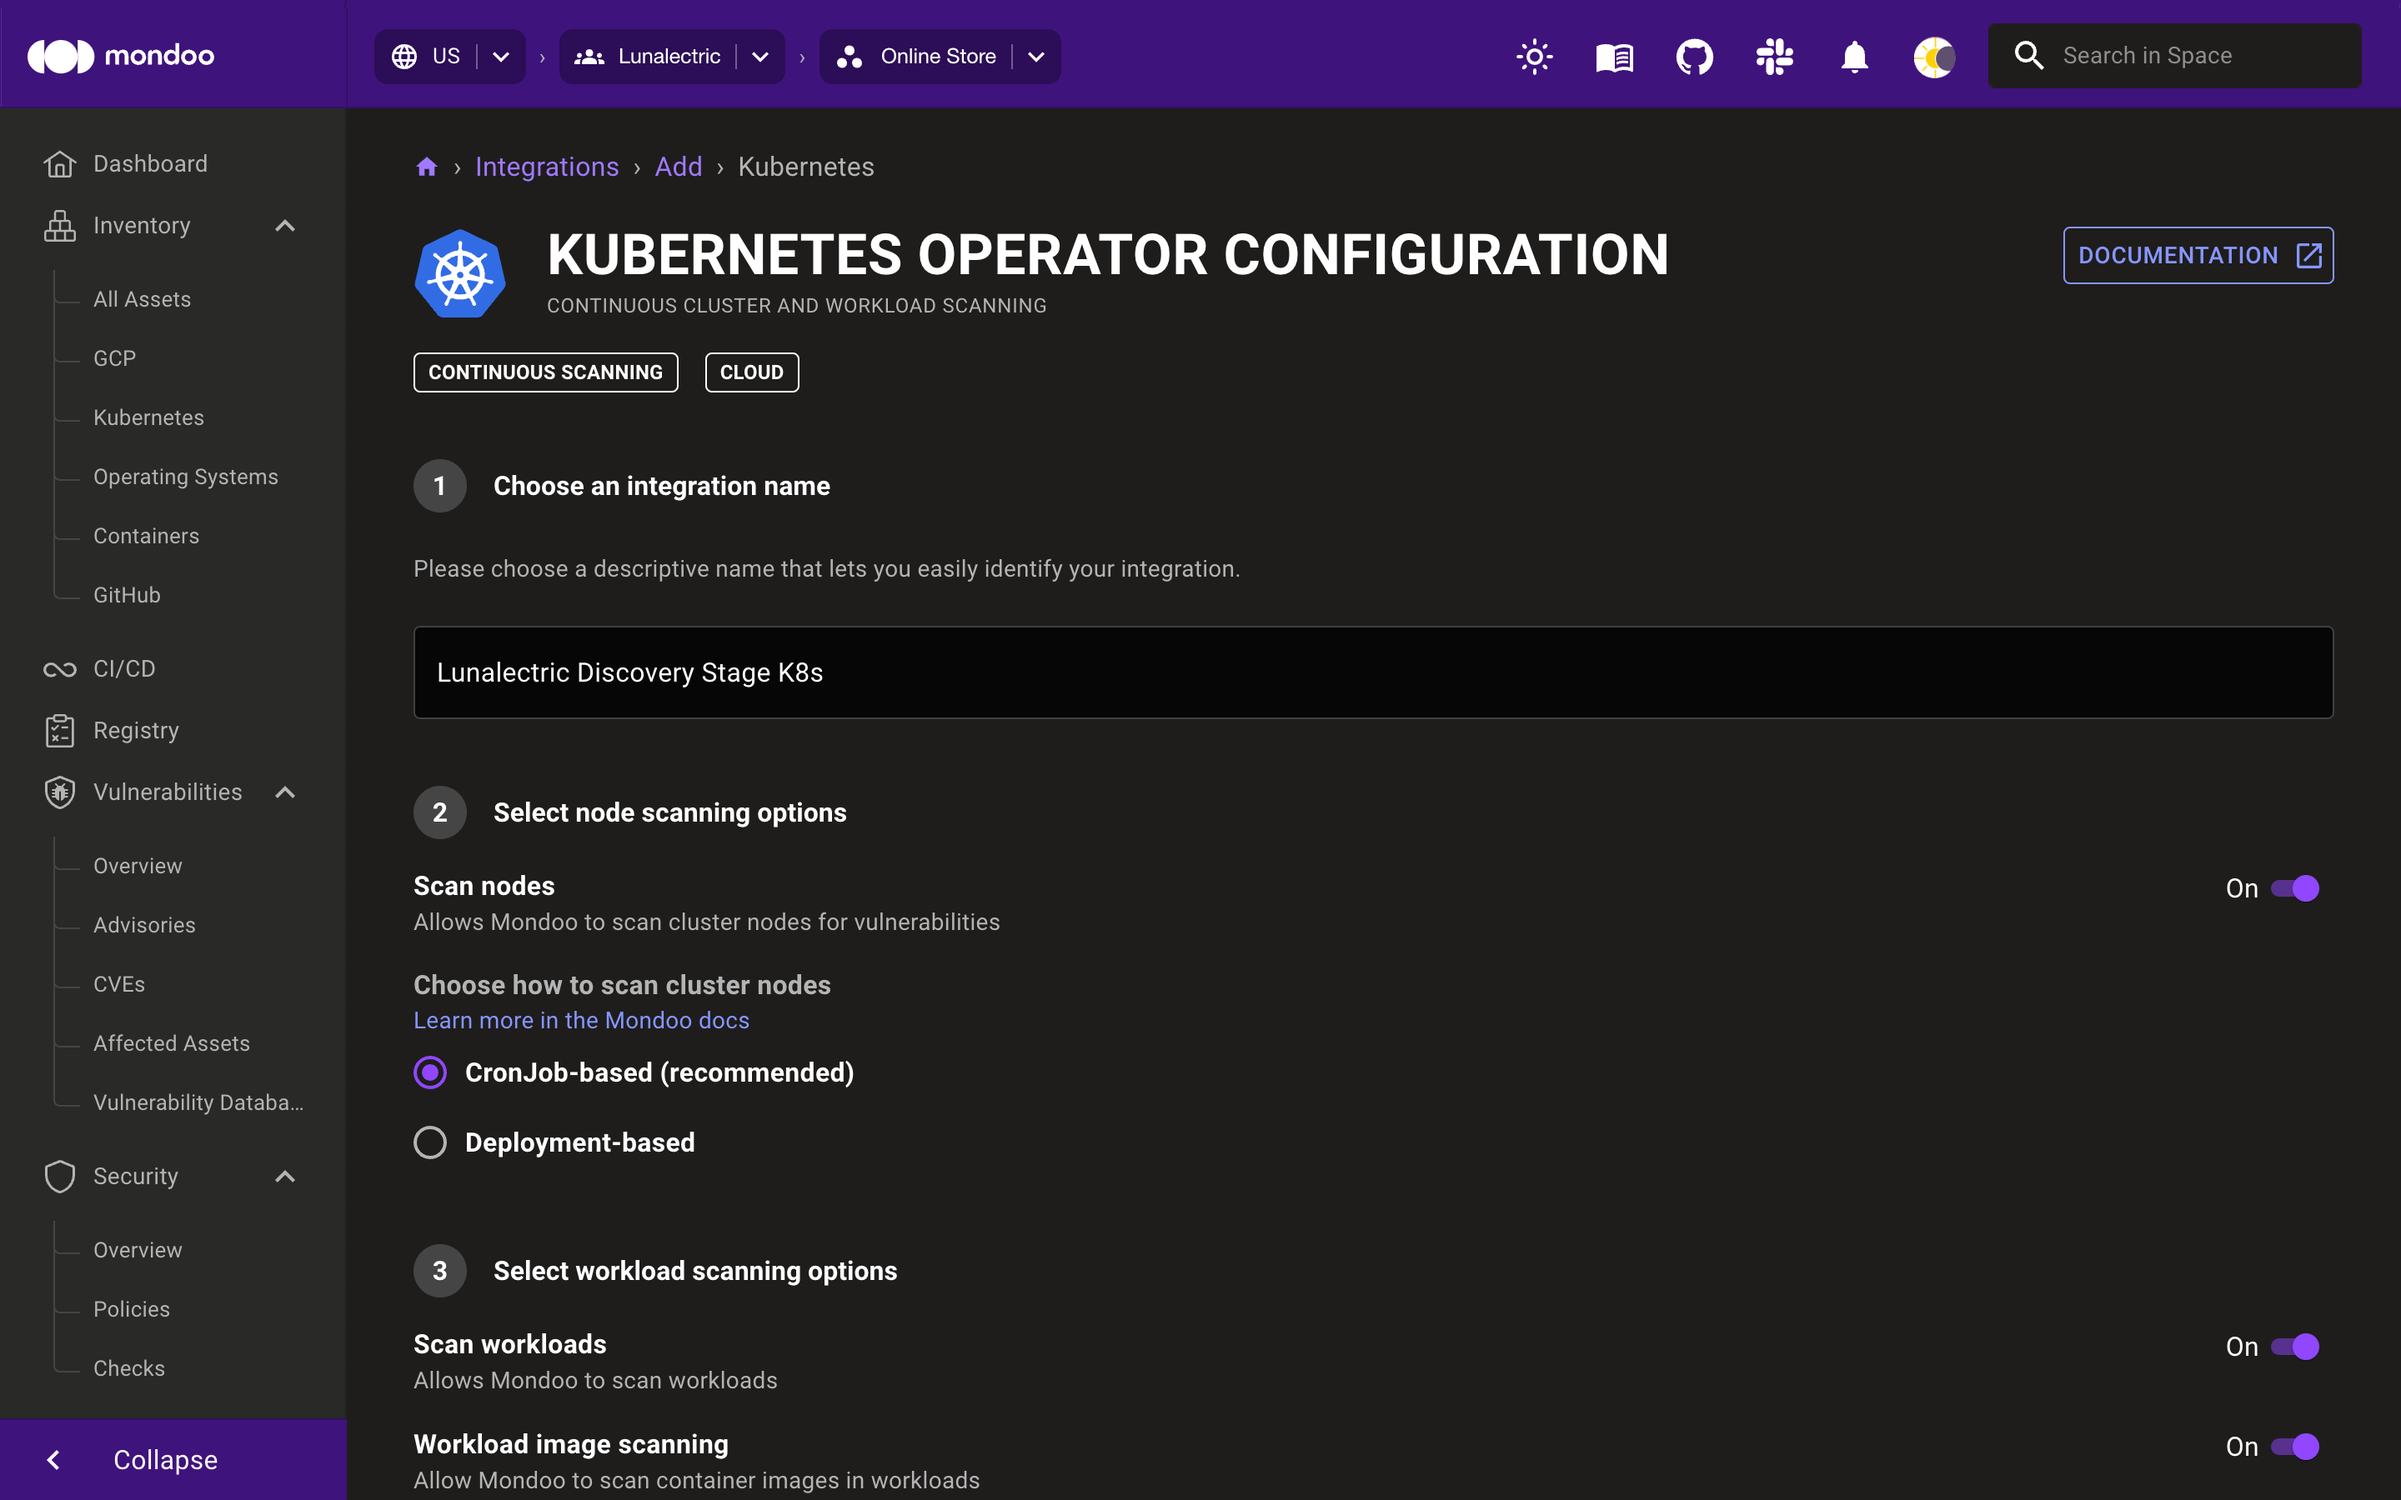
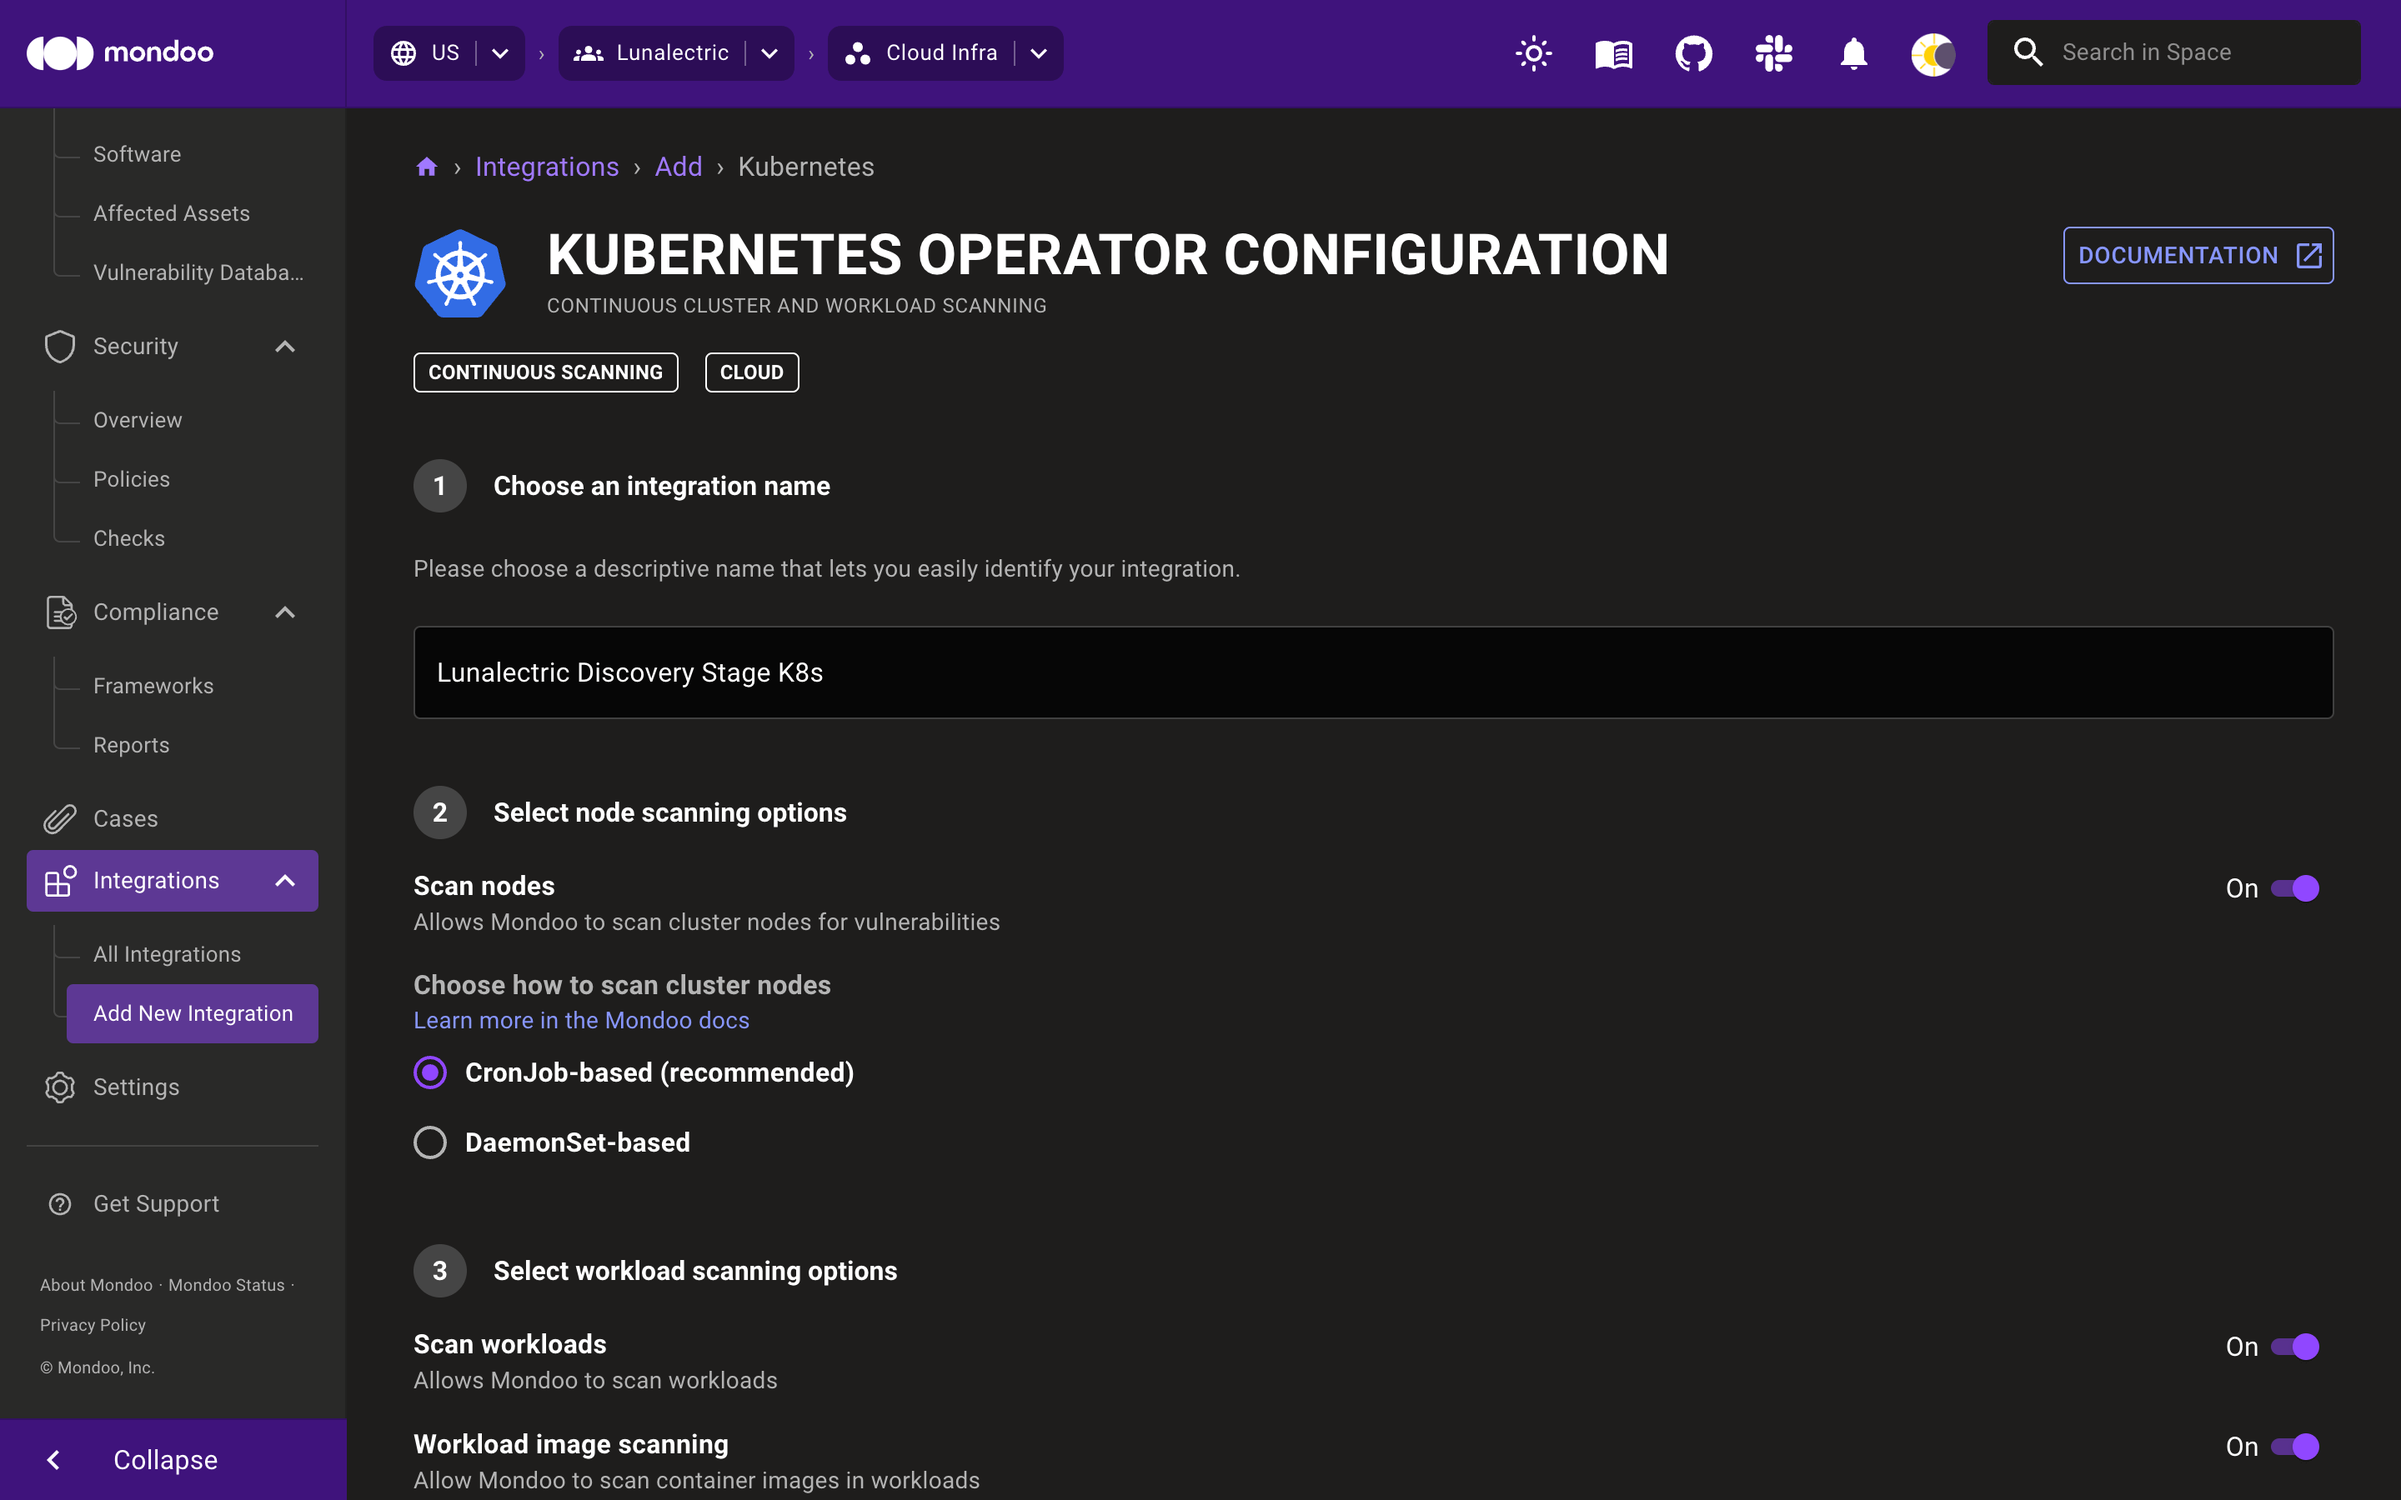
Catch up with k8s UI change

diff --git a/docs/platform/infra/cloud/kubernetes/scan-kubernetes-with-operator.md b/docs/platform/infra/cloud/kubernetes/scan-kubernetes-with-operator.md
@@ -37,7 +37,7 @@ To set up a Mondoo Kubernetes operator integration, access the Integrations > Ad
 
    - We strongly recommend that you leave **CronJob-based** selected. It's ideal for most infrastructures. A CronJob executes regularly to run the scans without permanently allocating any resources for Mondoo on cluster nodes.
 
-   - If your nodes tend to run near 100% resource utilization, that leaves no resources available for a CronJob to run a Mondoo scan. If you experience consistently failing Mondoo node scans, select **Deployment-based** scanning instead. This approach reserves resources for Mondoo on each cluster node. It relies on a DaemonSet to assure that Mondoo scans the nodes continuously, even during high-traffic times.
+   - If your nodes tend to run near 100% resource utilization, that leaves no resources available for a CronJob to run a Mondoo scan. If you experience consistently failing Mondoo node scans, select **DaemonSet-based** scanning instead. This approach reserves resources for Mondoo on each cluster node. It relies on a DaemonSet to assure that Mondoo scans the nodes continuously, even during high-traffic times.
 
 3. To continuously assess the security posture of workloads and resources in your cluster, enable **Scan workloads**.
 
@@ -50,6 +50,8 @@ To set up a Mondoo Kubernetes operator integration, access the Integrations > Ad
 6. To assess the security of every change applied to your Kubernetes cluster and display the results in the CI/CD view, enable **Scan incoming deployments**.
 
 7. If you enable **Scan incoming deployments**, choose the tool to use for managing the Mondoo admission controller's certificates: **CertManager** or **OpenShift**.
+
+8. Select the **CREATE KUBERNETES INTEGRATION** button.
 
 ### Scan incoming deployments
 
